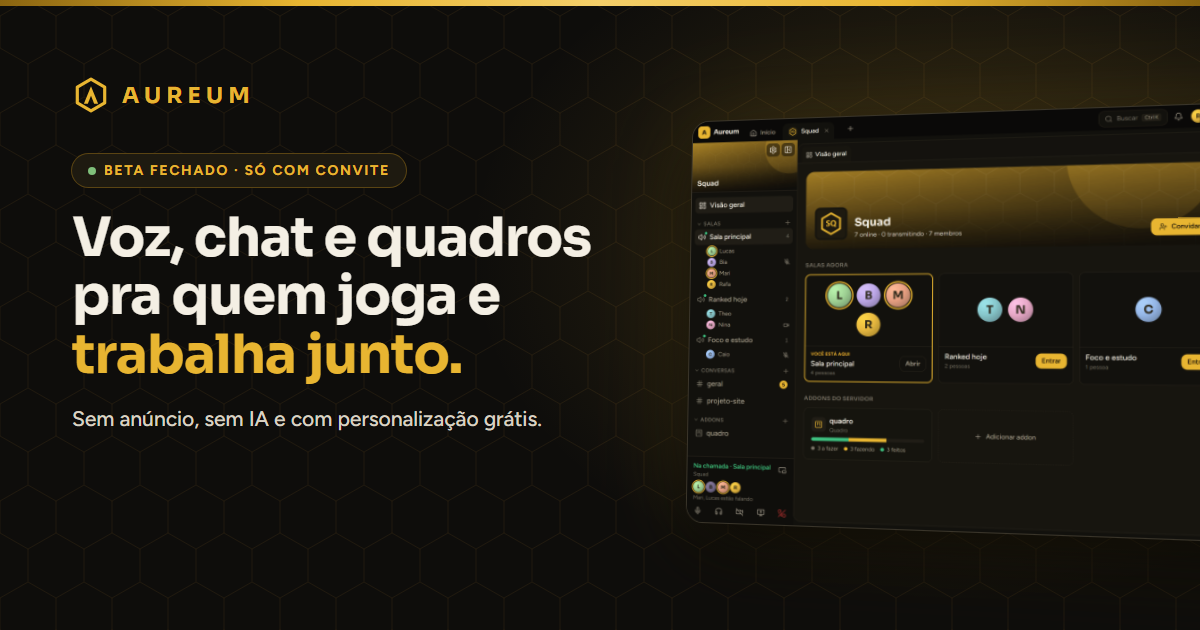
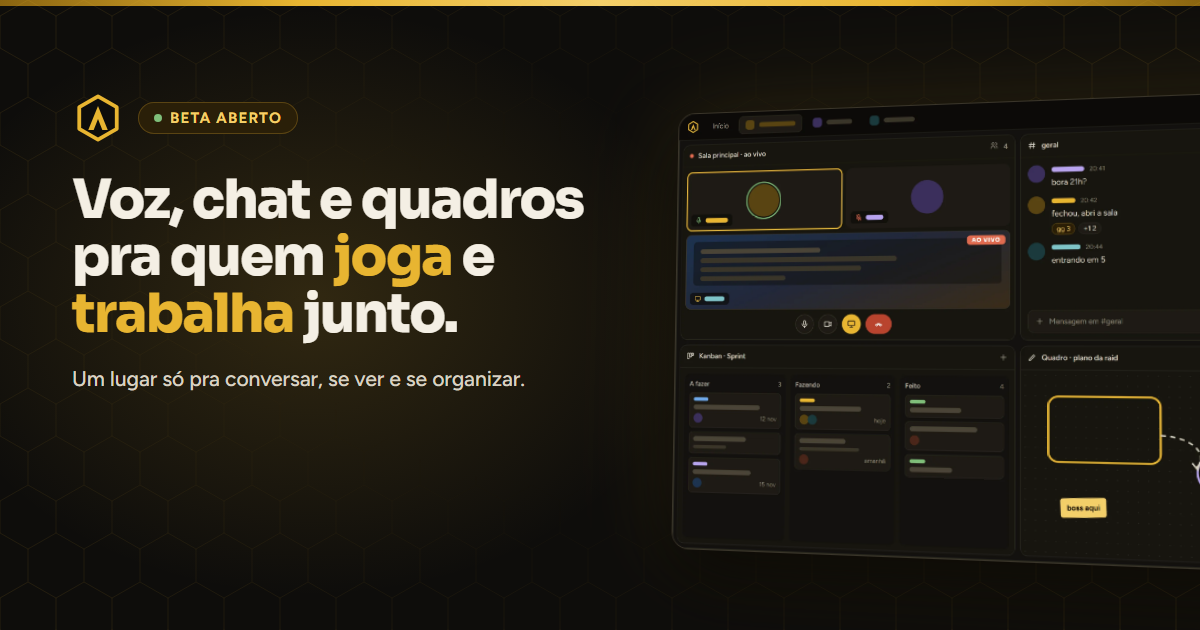
feat(site): new share image, drop the old screenshots
og.png now matches the new landing: BETA ABERTO, the hero title and the
synthetic four-panel screenshot, with the hexagons fading towards the
middle. The old app screenshots are gone; the README shows paineis.webp
instead of salas.png.

diff --git a/README.md b/README.md
@@ -9,7 +9,7 @@
   <a href="https://eduoliveira1504.github.io/aureum-voice/"><b>eduoliveira1504.github.io/aureum-voice</b></a>
 </p>
 
-![Visão geral de um servidor no Aureum, com as salas de voz e quem está falando](site/img/salas.png)
+![O Aureum com quatro painéis lado a lado: call, chat, Kanban e quadro](site/img/paineis.webp)
 
 O Aureum é um app de conversa pra Windows e Mac, feito pra ficar aberto o dia todo com o seu grupo de
 amigos ou o seu time:
